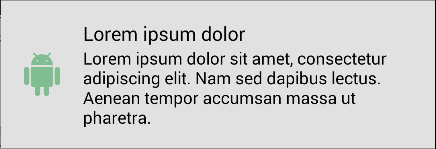
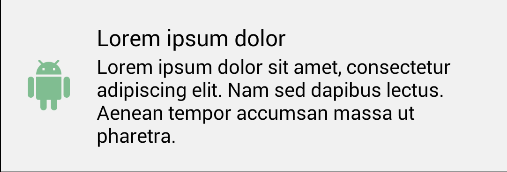
Adding FigActionView

diff --git a/ui-basics/src/main/java/com/github/bijoysingh/uibasics/views/FigActionView.java b/ui-basics/src/main/java/com/github/bijoysingh/uibasics/views/FigActionView.java
@@ -1,0 +1,100 @@
+package com.github.bijoysingh.uibasics.views;
+
+import android.content.Context;
+import android.util.AttributeSet;
+import android.widget.ImageView;
+import android.widget.TextView;
+
+import com.github.bijoysingh.uibasics.R;
+import com.github.bijoysingh.uibasics.attributes.ImageAttributes;
+import com.github.bijoysingh.uibasics.attributes.TextAttributes;
+import com.github.bijoysingh.uibasics.base.CustomLinearLayout;
+
+/**
+ * Fig Content View
+ * Created by bijoy on 10/28/16.
+ */
+
+public class FigActionView extends CustomLinearLayout {
+
+  private ImageView mIcon;
+  private TextView mTitle;
+  private TextView mSubtitle;
+  private ImageView mAction;
+
+  public FigActionView(Context context) {
+    super(context);
+  }
+
+  public FigActionView(Context context, AttributeSet attrs) {
+    super(context, attrs);
+
+    new ImageAttributes.Builder()
+        .setContext(context)
+        .setAttributeSet(attrs)
+        .setAttrStyleable(R.styleable.FigTextViewBase)
+        .setSrcStyleable(R.styleable.FigTextViewBase_icon)
+        .setIconSizeStyleable(R.styleable.FigTextViewBase_iconSize)
+        .setIconPaddingStyleable(R.styleable.FigTextViewBase_iconPadding)
+        .setIconTintStyleable(R.styleable.FigTextViewBase_iconTint)
+        .setIconMarginEndStyleable(R.styleable.FigTextViewBase_iconTextGap)
+        .build()
+        .set(mIcon);
+
+    new TextAttributes.Builder()
+        .setContext(context)
+        .setAttributeSet(attrs)
+        .setAttrStyleable(R.styleable.FigContentView)
+        .setTextStyleable(R.styleable.FigContentView_title)
+        .setTextColorStyleable(R.styleable.FigContentView_titleColor)
+        .setTextSizeStyleable(R.styleable.FigContentView_titleSize)
+        .setTextStyleStyleable(R.styleable.FigContentView_titleStyle)
+        .setTextPaddingStyleable(R.styleable.FigContentView_titlePadding)
+        .build()
+        .set(mTitle);
+
+    new TextAttributes.Builder()
+        .setContext(context)
+        .setAttributeSet(attrs)
+        .setAttrStyleable(R.styleable.FigContentView)
+        .setTextStyleable(R.styleable.FigContentView_subtitle)
+        .setTextColorStyleable(R.styleable.FigContentView_subtitleColor)
+        .setTextSizeStyleable(R.styleable.FigContentView_subtitleSize)
+        .setTextStyleStyleable(R.styleable.FigContentView_subtitleStyle)
+        .setTextPaddingStyleable(R.styleable.FigContentView_subtitlePadding)
+        .build()
+        .set(mSubtitle);
+
+
+    new ImageAttributes.Builder()
+        .setContext(context)
+        .setAttributeSet(attrs)
+        .setAttrStyleable(R.styleable.FigActionView)
+        .setSrcStyleable(R.styleable.FigActionView_action)
+        .setIconSizeStyleable(R.styleable.FigActionView_actionSize)
+        .setIconPaddingStyleable(R.styleable.FigActionView_actionPadding)
+        .setIconTintStyleable(R.styleable.FigActionView_actionTint)
+        .setIconMarginStartStyleable(R.styleable.FigActionView_actionTextGap)
+        .build()
+        .set(mAction);
+  }
+
+  public FigActionView(Context context, AttributeSet attrs, int defStyleAttr) {
+    super(context, attrs, defStyleAttr);
+  }
+
+  public FigActionView(Context context, AttributeSet attrs, int defStyleAttr, int defStyleRes) {
+    super(context, attrs, defStyleAttr, defStyleRes);
+  }
+
+  @Override
+  protected void init() {
+    setContentLayout(R.layout.fig_action);
+    setOrientation(HORIZONTAL);
+
+    mIcon = (ImageView) findViewById(R.id.icon);
+    mTitle = (TextView) findViewById(R.id.title);
+    mSubtitle = (TextView) findViewById(R.id.subtitle);
+    mAction = (ImageView) findViewById(R.id.action);
+  }
+}

diff --git a/README.md b/README.md
@@ -16,7 +16,7 @@ Color resources from the following sources
 <com.github.bijoysingh.uibasics.views.FigTextView
    android:layout_width="match_parent"
    android:layout_height="wrap_content"
-   android:background="#e1e1e1"
+   android:background="#f1f1f1"
    android:gravity="center_vertical"
    android:padding="16dp"
    fig:iconPadding="@dimen/fig_textview_icon_padding"
@@ -39,16 +39,16 @@ Color resources from the following sources
 <com.github.bijoysingh.uibasics.views.FigLabelView
    android:layout_width="wrap_content"
    android:layout_height="wrap_content"
-   android:background="@color/canva_1_stem"
    android:gravity="center"
    android:padding="16dp"
+   android:background="#f1f1f1"
    fig:iconPadding="@dimen/fig_labelview_icon_padding"
    fig:iconSize="48dp"
    fig:iconTextGap="@dimen/fig_labelview_icon_text_gap"
-   fig:iconTint="@color/light_hint_text"
+   fig:iconTint="@color/canva_1_stem"
    fig:icon="@drawable/ic_android_white_48dp"
    fig:text="@string/tiny_text_placeholder"
-   fig:textColor="@color/light_primary_text"
+   fig:textColor="@color/dark_primary_text"
    fig:textSize="18sp"
    fig:textStyle="@style/CustomFigLabelView"
    />
@@ -60,23 +60,52 @@ Color resources from the following sources
 ![FigTextView](readme/FigContentView.png)
 ```xml
 <com.github.bijoysingh.uibasics.views.FigContentView
-    android:layout_width="wrap_content"
-    android:layout_height="wrap_content"
-    android:background="#e1e1e1"
-    android:gravity="center_vertical"
-    android:padding="16dp"
-    fig:icon="@drawable/ic_android_white_48dp"
-    fig:iconPadding="@dimen/fig_textview_icon_padding"
-    fig:iconSize="36dp"
-    fig:iconTextGap="16dp"
-    fig:iconTint="@color/canva_1_stem"
-    fig:title="@string/text_placeholder"
-    fig:titleColor="@color/dark_secondary_text"
-    fig:titleSize="16sp"
-    fig:titleStyle="@style/CustomFigContentViewTitle"
-    fig:subtitle="@string/big_text_placeholder"
-    fig:subtitleColor="@color/dark_tertiary_text"
-    fig:subtitleSize="14sp"
-    fig:subtitleStyle="@style/CustomFigContentViewSubtitle"
-    />
+   android:layout_width="wrap_content"
+   android:layout_height="wrap_content"
+   android:background="#f1f1f1"
+   android:gravity="center_vertical"
+   android:padding="16dp"
+   fig:icon="@drawable/ic_android_white_48dp"
+   fig:iconSize="36dp"
+   fig:iconTextGap="16dp"
+   fig:iconTint="@color/canva_1_stem"
+   fig:title="@string/text_placeholder"
+   fig:titleSize="16sp"
+   fig:titleColor="@color/dark_secondary_text"
+   fig:titleStyle="@style/CustomFigContentViewTitle"
+   fig:subtitle="@string/big_text_placeholder"
+   fig:subtitleSize="14sp"
+   fig:subtitleColor="@color/dark_tertiary_text"
+   fig:subtitleStyle="@style/CustomFigContentViewSubtitle"
+   />
+```
+
+### FigContentView
+`ImageView` next to a title `TextView` and a subtitle `TextView` and an action Button.
+
+![FigActionView](readme/FigActionView.png)
+```xml
+<com.github.bijoysingh.uibasics.views.FigActionView
+   android:layout_width="match_parent"
+   android:layout_height="wrap_content"
+   android:background="#f1f1f1"
+   android:gravity="center_vertical"
+   android:padding="16dp"
+   fig:icon="@drawable/ic_android_white_48dp"
+   fig:iconSize="36dp"
+   fig:iconTextGap="16dp"
+   fig:iconTint="@color/canva_1_stem"
+   fig:title="@string/text_placeholder"
+   fig:titleSize="16sp"
+   fig:titleColor="@color/dark_secondary_text"
+   fig:titleStyle="@style/CustomFigContentViewTitle"
+   fig:subtitle="@string/big_text_placeholder"
+   fig:subtitleSize="14sp"
+   fig:subtitleColor="@color/dark_tertiary_text"
+   fig:subtitleStyle="@style/CustomFigContentViewSubtitle"
+   fig:action="@drawable/ic_keyboard_arrow_right_white_24dp"
+   fig:actionSize="36dp"
+   fig:actionTextGap="16dp"
+   fig:actionTint="@color/dark_hint_text"
+   />
 ```
